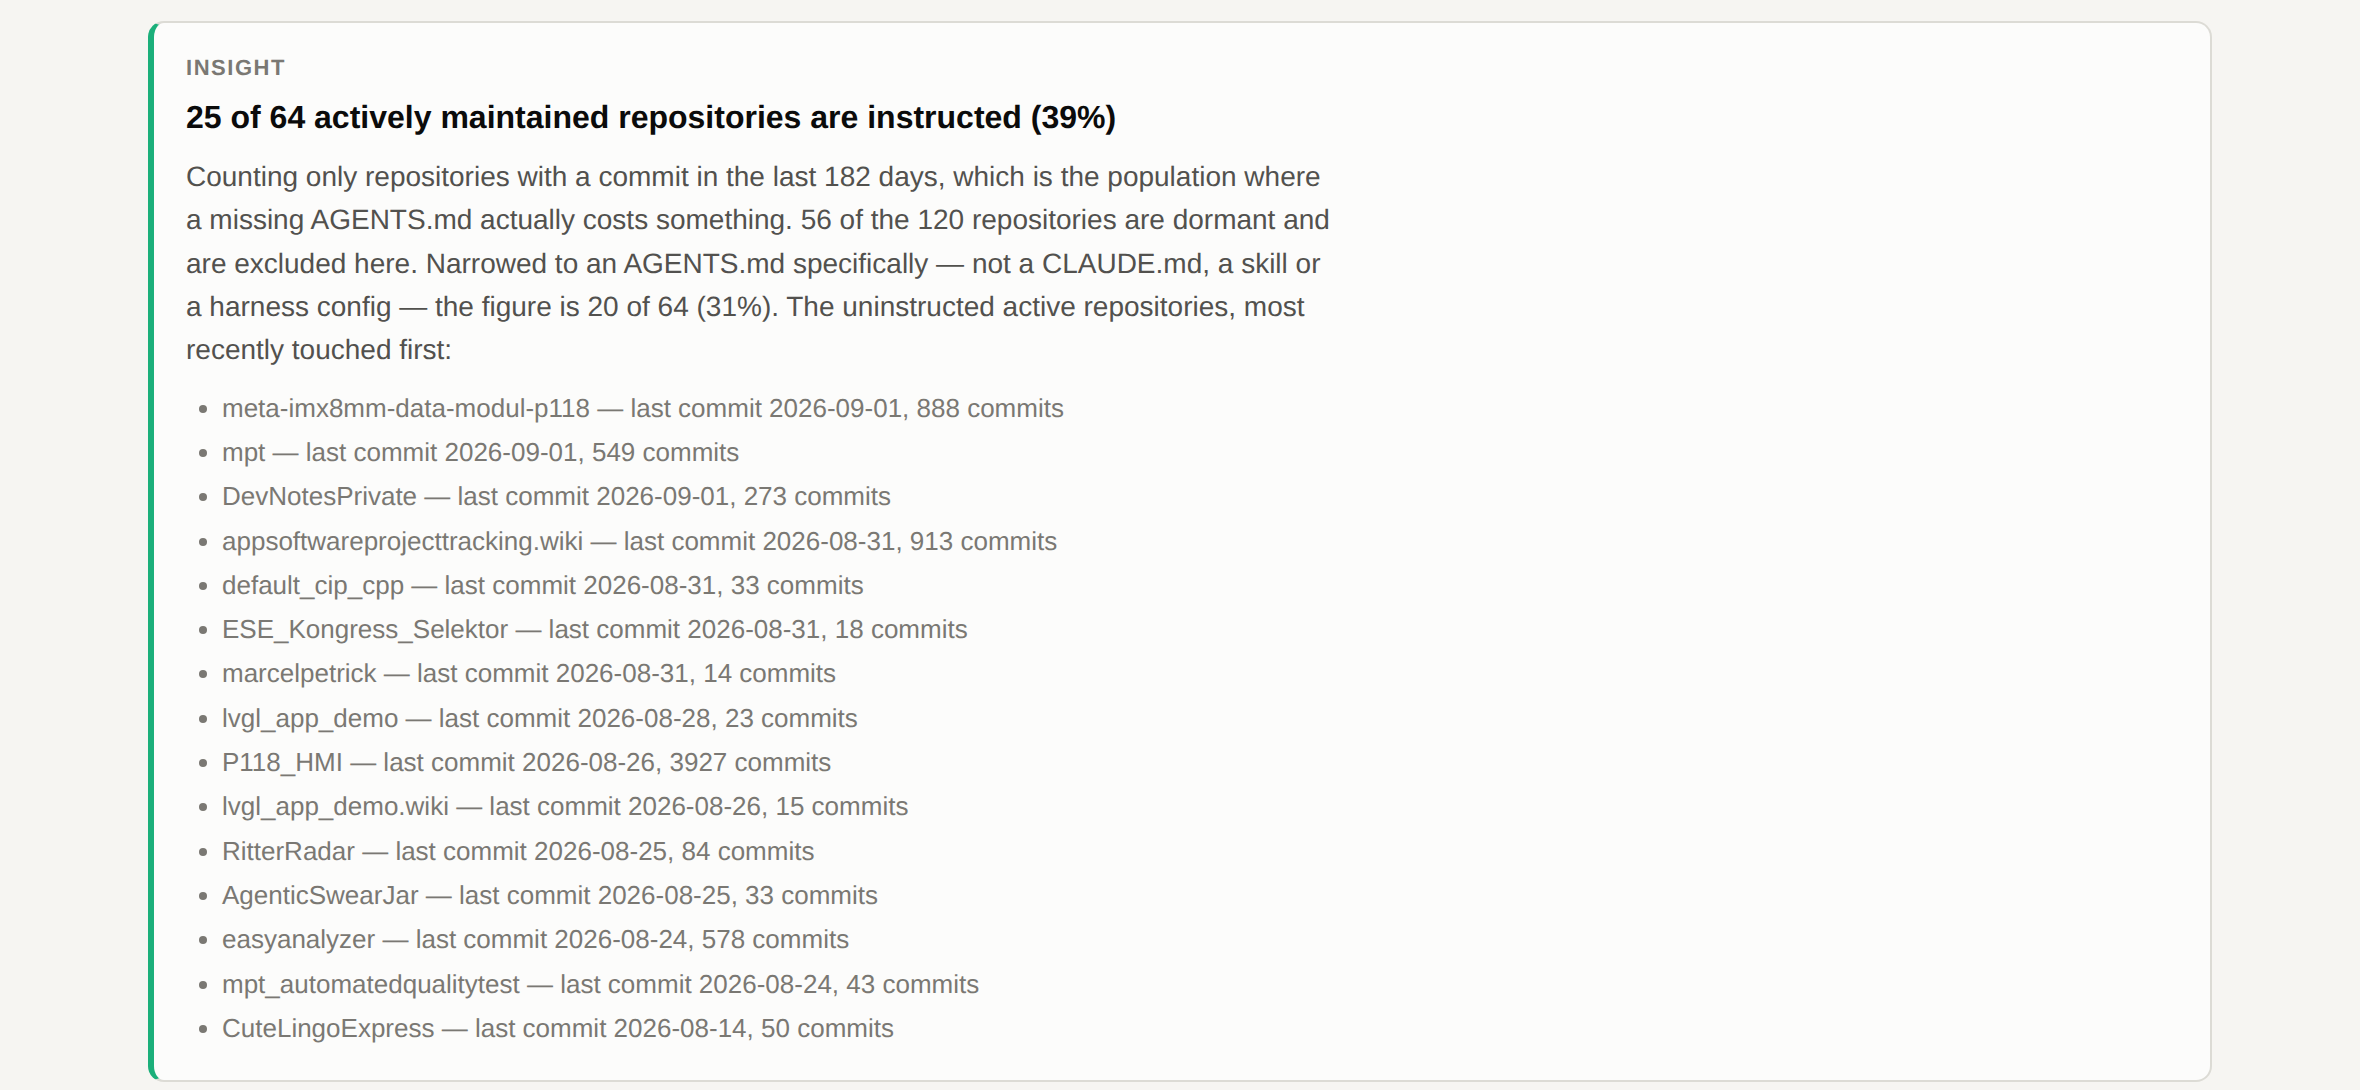
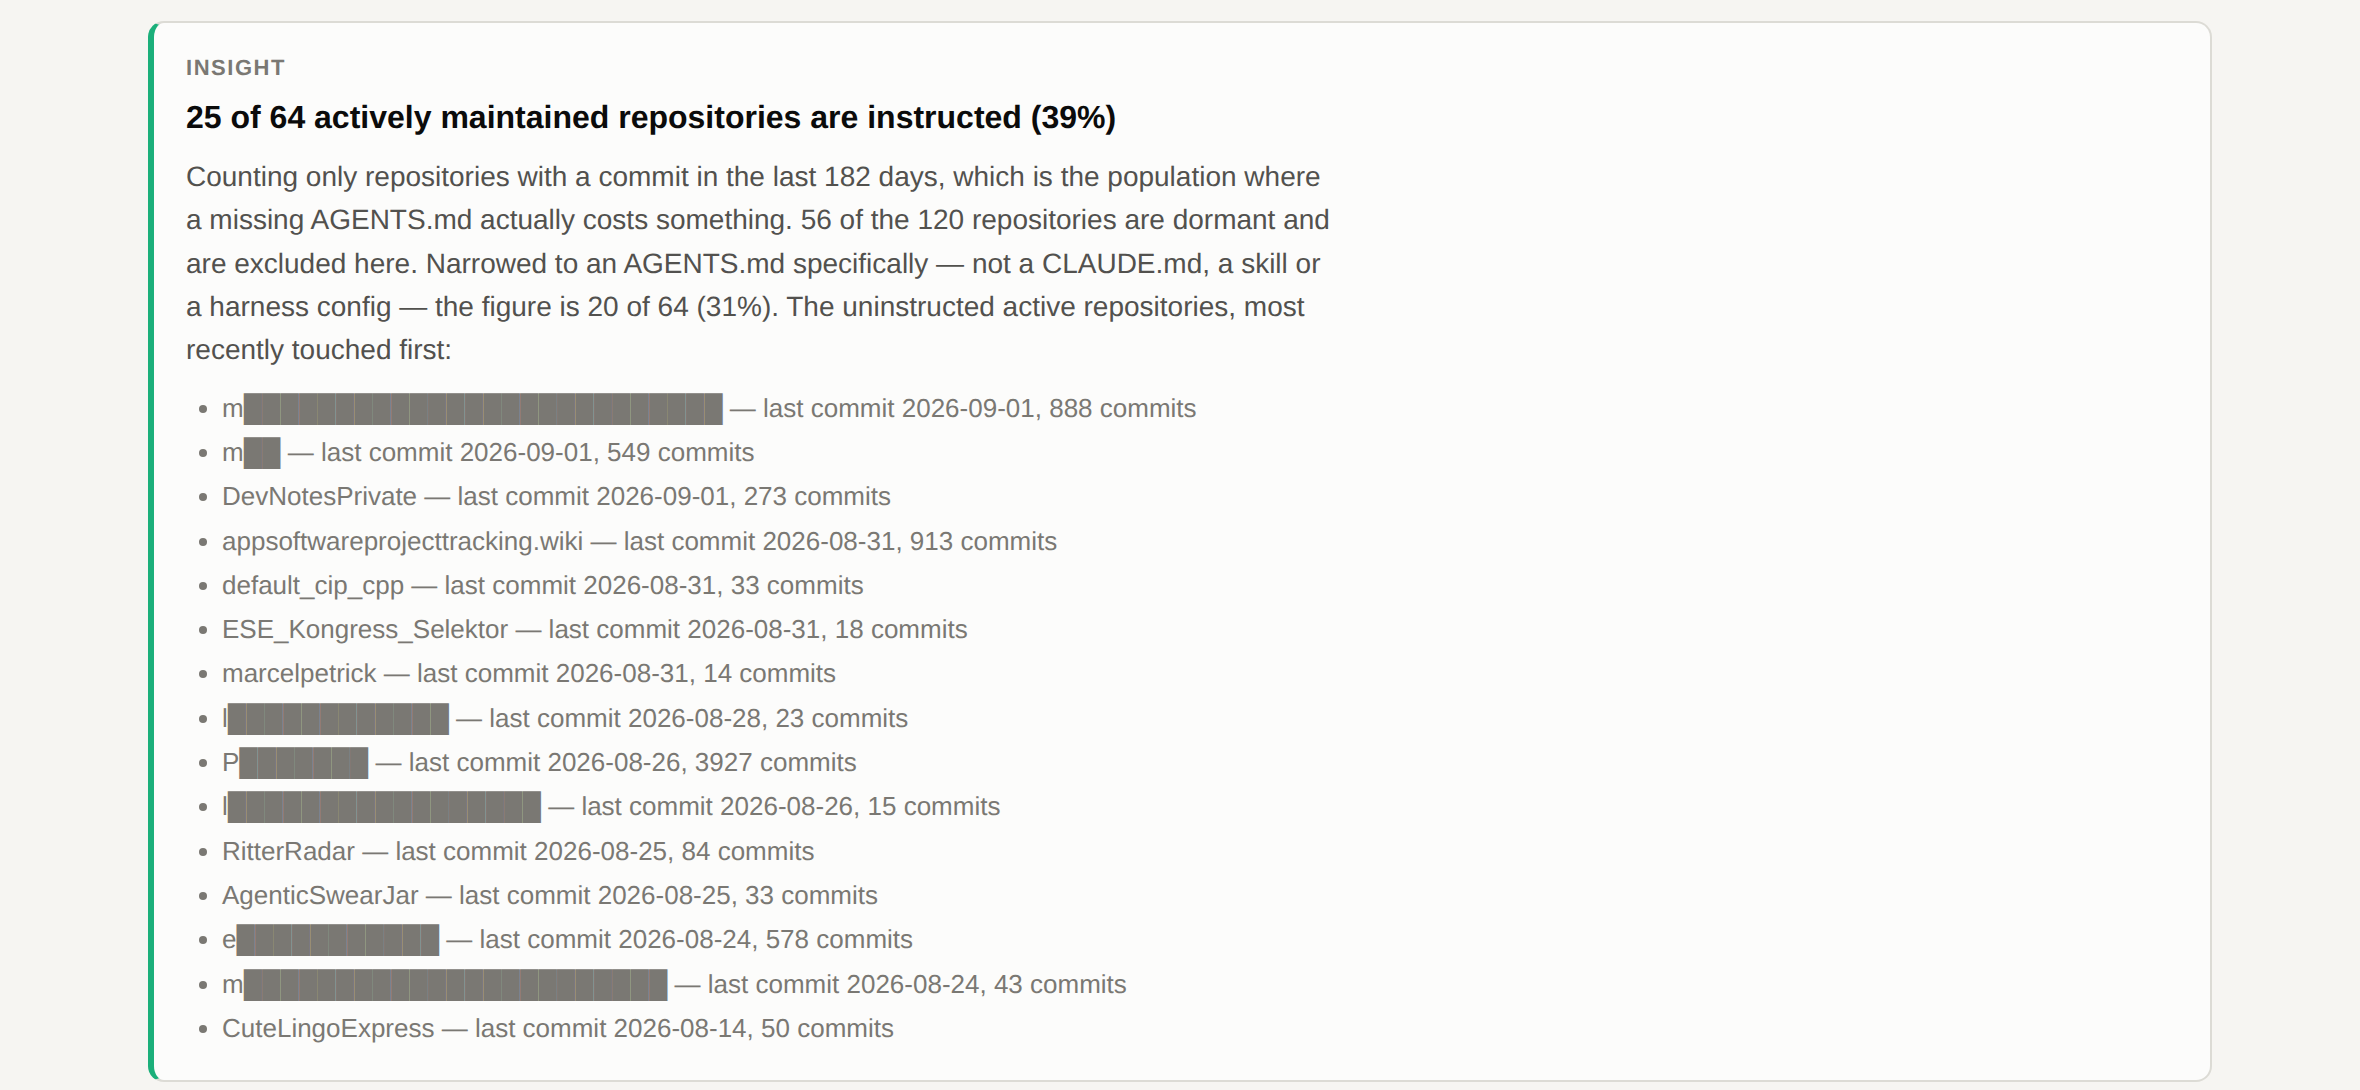
feat(redact): mask customer repository names in published output
Some repository names identify a customer or a product. Dropping those
repositories would falsify coverage, so they are counted as before and
masked at the point of output instead: the first character survives, the
rest becomes a block, and the length stays honest.

--redact applies to the report, the canonical file and the JSON alike, so
a name is masked wherever it surfaced — a scope, a path, a table cell, a
quoted rule. A stem matches a whole name token in any casing, so mpt
masks mpt and mpt_automatedqualitytest while prompt and attempt are left
alone.

Regenerates every image in media/ from the redacted report rather than
painting over the old ones, so nothing recoverable survives underneath.
Also moves li.md up out of media/, where it had landed by mistake.

Changed region(s): [[0.0928, 0.6239, 0.4331, 0.7798], [0.0928, 0.8422, 0.464, 0.9358], [0.0928, 0.3431, 0.4949, 0.4367]]

diff --git a/AgentsMdSurvey/tests/test_survey.py b/AgentsMdSurvey/tests/test_survey.py
@@ -20,6 +20,7 @@ from agentsmdsurvey.cli import build_survey  # noqa: E402
 from agentsmdsurvey.discovery import discover, first_party, mark_duplicates  # noqa: E402
 from agentsmdsurvey.llm import Cache, Client, cluster, enrich  # noqa: E402
 from agentsmdsurvey.parse import normalize, parse  # noqa: E402
+from agentsmdsurvey.redact import mask, redact  # noqa: E402
 from agentsmdsurvey.taxonomy import classify  # noqa: E402
 
 ROOT_AGENTS = """# AGENTS.md
@@ -189,6 +190,46 @@ class TaxonomyTest(unittest.TestCase):
 
     def test_make_sure_is_not_a_toolchain_rule(self) -> None:
         self.assertNotIn("env.toolchain", classify("make sure the output is correct"))
+
+
+class RedactionTest(unittest.TestCase):
+    """Names that must not leave the machine, and words that only look like them."""
+
+    def test_the_first_character_survives_and_the_length_is_honest(self) -> None:
+        self.assertEqual(mask("easyanalyzer"), "e" + "█" * 11)
+        self.assertEqual(redact("easyanalyzer"), "e███████████")
+
+    def test_every_way_a_name_is_written_is_caught(self) -> None:
+        for name in (
+            "easyanalyzer.wiki",
+            "easyAnalyzer",
+            "easyanalyzer-worktrees",
+            "mpt",
+            "mpt.wiki",
+            "mpt_automatedqualitytest",
+            "lvgl_app_demo",
+            "P118_HMI",
+            "p118_hmi_app",
+            "meta-imx8mm-data-modul-p118",
+            "ePulse_BSP",
+        ):
+            masked = redact(name)
+            self.assertEqual(masked[0], name[0], name)
+            self.assertEqual(len(masked), len(name), name)
+            self.assertNotIn(name[1:].lower(), masked.lower(), f"{name} survived redaction")
+
+    def test_a_path_is_masked_segment_by_segment(self) -> None:
+        self.assertEqual(redact("mpt/submodules/easyAnalyzer"), "m██/submodules/e███████████")
+        self.assertEqual(redact("ePulse_BSP/SKILLS/app/SKILL.md"), "e█████████/SKILLS/app/SKILL.md")
+
+    def test_ordinary_words_containing_a_stem_are_left_alone(self) -> None:
+        """The 'mpt' in 'prompt' is not a repository."""
+        for text in ("prompt engineering", "an attempt", "a computed template", "tempting"):
+            self.assertEqual(redact(text), text)
+
+    def test_unrelated_repository_names_survive(self) -> None:
+        for name in ("recognizer", "LVGL_coffeeDispenser", "GarminActivityMap"):
+            self.assertEqual(redact(name), name)
 
 
 class PipelineTest(unittest.TestCase):
@@ -364,8 +405,31 @@ class EndToEndTest(unittest.TestCase):
                 self.assertTrue((out / name).exists(), f"{name} missing")
             html = (out / "report.html").read_text()
             self.assertIn("<!doctype html>", html)
+            self.assertIn("alpha", html, "unredacted run must keep the real names")
             self.assertNotIn("http://cdn", html)
             self.assertNotIn("<script", html)
+
+    def test_redacted_run_masks_the_name_in_every_output(self) -> None:
+        """--redact must reach the report, the canonical file and the JSON alike."""
+        import tempfile
+
+        with tempfile.TemporaryDirectory() as tmp:
+            root = Path(tmp) / "tree"
+            root.mkdir()
+            build_tree(root)
+            out = Path(tmp) / "out"
+            script = Path(__file__).resolve().parents[1] / "run.py"
+            result = subprocess.run(
+                [sys.executable, str(script), str(root), "--out", str(out), "--no-git", "--redact", "alpha"],
+                capture_output=True,
+                text=True,
+                timeout=120,
+            )
+            self.assertEqual(result.returncode, 0, result.stderr)
+            for name in ("report.html", "AGENTS.canonical.md", "survey.json"):
+                text = (out / name).read_text()
+                self.assertNotIn("alpha", text, f"{name} leaked the name")
+            self.assertIn("a████", (out / "report.html").read_text())
 
 
 if __name__ == "__main__":

diff --git a/AgentsMdSurvey/agentsmdsurvey/cli.py b/AgentsMdSurvey/agentsmdsurvey/cli.py
@@ -8,6 +8,7 @@ import sys
 from pathlib import Path
 
 from . import report, synth
+from .redact import DEFAULT_STEMS, redact
 from .discovery import discover, mark_duplicates
 from .parse import parse
 from .stats import UNIVERSAL_MIN_SCOPES, Survey
@@ -55,6 +56,18 @@ def main(argv: list[str] | None = None) -> int:
     )
     parser.add_argument("--no-git", action="store_true", help="skip git history (faster, loses staleness findings)")
     parser.add_argument(
+        "--redact",
+        nargs="?",
+        const=",".join(DEFAULT_STEMS),
+        default="",
+        metavar="STEMS",
+        help=(
+            "mask repository names before writing anything, for output that leaves the machine. "
+            f"Bare --redact uses the built-in list ({', '.join(DEFAULT_STEMS)}); pass a comma-separated "
+            "list to override it. Counts are unaffected: only the names are masked."
+        ),
+    )
+    parser.add_argument(
         "--llm",
         choices=("off", "ollama"),
         default="off",
@@ -89,9 +102,19 @@ def main(argv: list[str] | None = None) -> int:
         )
 
     canonical = synth.render(survey, args.min_scopes)
+    document = report.render(survey, canonical)
+    payload = json.dumps(survey.to_dict(), indent=2)
+
+    if args.redact:
+        # Masking the finished text rather than the model catches a name
+        # wherever it surfaced — a scope, a path, a table cell, a quoted rule.
+        stems = tuple(s.strip().lower() for s in args.redact.split(",") if s.strip())
+        canonical, document, payload = (redact(t, stems) for t in (canonical, document, payload))
+        print(f"redacted {len(stems)} name stems: {', '.join(stems)}", file=sys.stderr)
+
     (out / "AGENTS.canonical.md").write_text(canonical, encoding="utf-8")
-    (out / "survey.json").write_text(json.dumps(survey.to_dict(), indent=2), encoding="utf-8")
-    (out / "report.html").write_text(report.render(survey, canonical), encoding="utf-8")
+    (out / "survey.json").write_text(payload, encoding="utf-8")
+    (out / "report.html").write_text(document, encoding="utf-8")
 
     head = survey.headline()
     print(

diff --git a/AgentsMdSurvey/agentsmdsurvey/redact.py b/AgentsMdSurvey/agentsmdsurvey/redact.py
@@ -1,0 +1,49 @@
+"""Redaction for outputs that leave the machine.
+
+Some repository names identify a customer or a product that is nobody else's
+business. The survey still has to count them — dropping them would falsify
+coverage — so they are masked at the point of output instead: the first
+character survives, the rest becomes a block, and the length stays honest.
+
+    easyanalyzer  ->  e███████████
+
+Applied to the finished report, the canonical file and the JSON, so a name is
+masked wherever it turns up: a scope, a path, a table cell, a quoted rule.
+"""
+
+from __future__ import annotations
+
+import re
+
+BLOCK = "█"
+
+# Name stems to mask. A stem matches a whole name token — never a fragment of
+# an unrelated word — so "mpt" masks mpt and mpt_automatedqualitytest while
+# leaving "prompt" and "attempt" alone.
+DEFAULT_STEMS: tuple[str, ...] = ("easyanalyzer", "mpt", "lvgl_app", "p118", "epulse")
+
+# Characters that belong to a name token. The path separator does not, so each
+# segment of a/b/c is masked on its own merits.
+_TOKEN = r"[\w.-]"
+
+
+def _pattern(stem: str) -> re.Pattern[str]:
+    """A token that *starts with* the stem, or contains it after a separator.
+
+    The second case exists for stems that trail a compound name, such as the
+    p118 in meta-imx8mm-data-modul-p118.
+    """
+    escaped = re.escape(stem)
+    return re.compile(rf"\b(?:{_TOKEN}*[-_.])?{escaped}{_TOKEN}*", re.IGNORECASE)
+
+
+def mask(token: str) -> str:
+    """First character, then one block per remaining character."""
+    return token[0] + BLOCK * (len(token) - 1) if token else token
+
+
+def redact(text: str, stems: tuple[str, ...] = DEFAULT_STEMS) -> str:
+    """Mask every occurrence of every stem in ``text``."""
+    for stem in stems:
+        text = _pattern(stem).sub(lambda m: mask(m.group(0)), text)
+    return text

diff --git a/AgentsMdSurvey/README.md b/AgentsMdSurvey/README.md
@@ -19,7 +19,23 @@ The rationale, the design and the deterministic-versus-LLM argument are in
 ./run.py /path/to/repos       # somewhere else
 ./run.py --out /tmp/survey    # different output directory
 ./run.py --no-git             # skip git history: faster, loses the staleness findings
+./run.py --redact             # mask customer repository names before writing anything
 ```
+
+`--redact` is for output that leaves the machine. Some repository names identify
+a customer or a product; the survey still counts them, because dropping them
+would falsify coverage, but every occurrence is masked in the report, the
+canonical file and the JSON alike — first character kept, the rest blocked out,
+length preserved:
+
+```
+easyanalyzer  ->  e███████████
+```
+
+The built-in stem list lives in `agentsmdsurvey/redact.py`; pass
+`--redact stem1,stem2` to override it. A name token is matched whole, so `mpt`
+masks `mpt` and `mpt_automatedqualitytest` while leaving `prompt` alone.
+**Everything in `media/` and anything published was generated with `--redact`.**
 
 Standard library only. No install step, no virtualenv, nothing to fetch. Three
 files land in `out/`:

diff --git a/AgentsMdSurvey/li.md b/AgentsMdSurvey/li.md
@@ -4,6 +4,12 @@ Draft plus the numbers behind it. Every figure comes from
 `./run.py ~/repos`, scanned on 2026-09-02; nothing here is estimated by hand.
 Regenerate before posting if the tree has moved on.
 
+**Everything published from this survey — the images in `media/`, any hosted
+copy of the report — is generated with `./run.py --redact`,** which masks
+customer repository names while keeping every count intact. Regenerate the same
+way; a plain `./run.py` writes the real names, which is right for the local
+report and wrong for a post.
+
 ---
 
 ## The post
